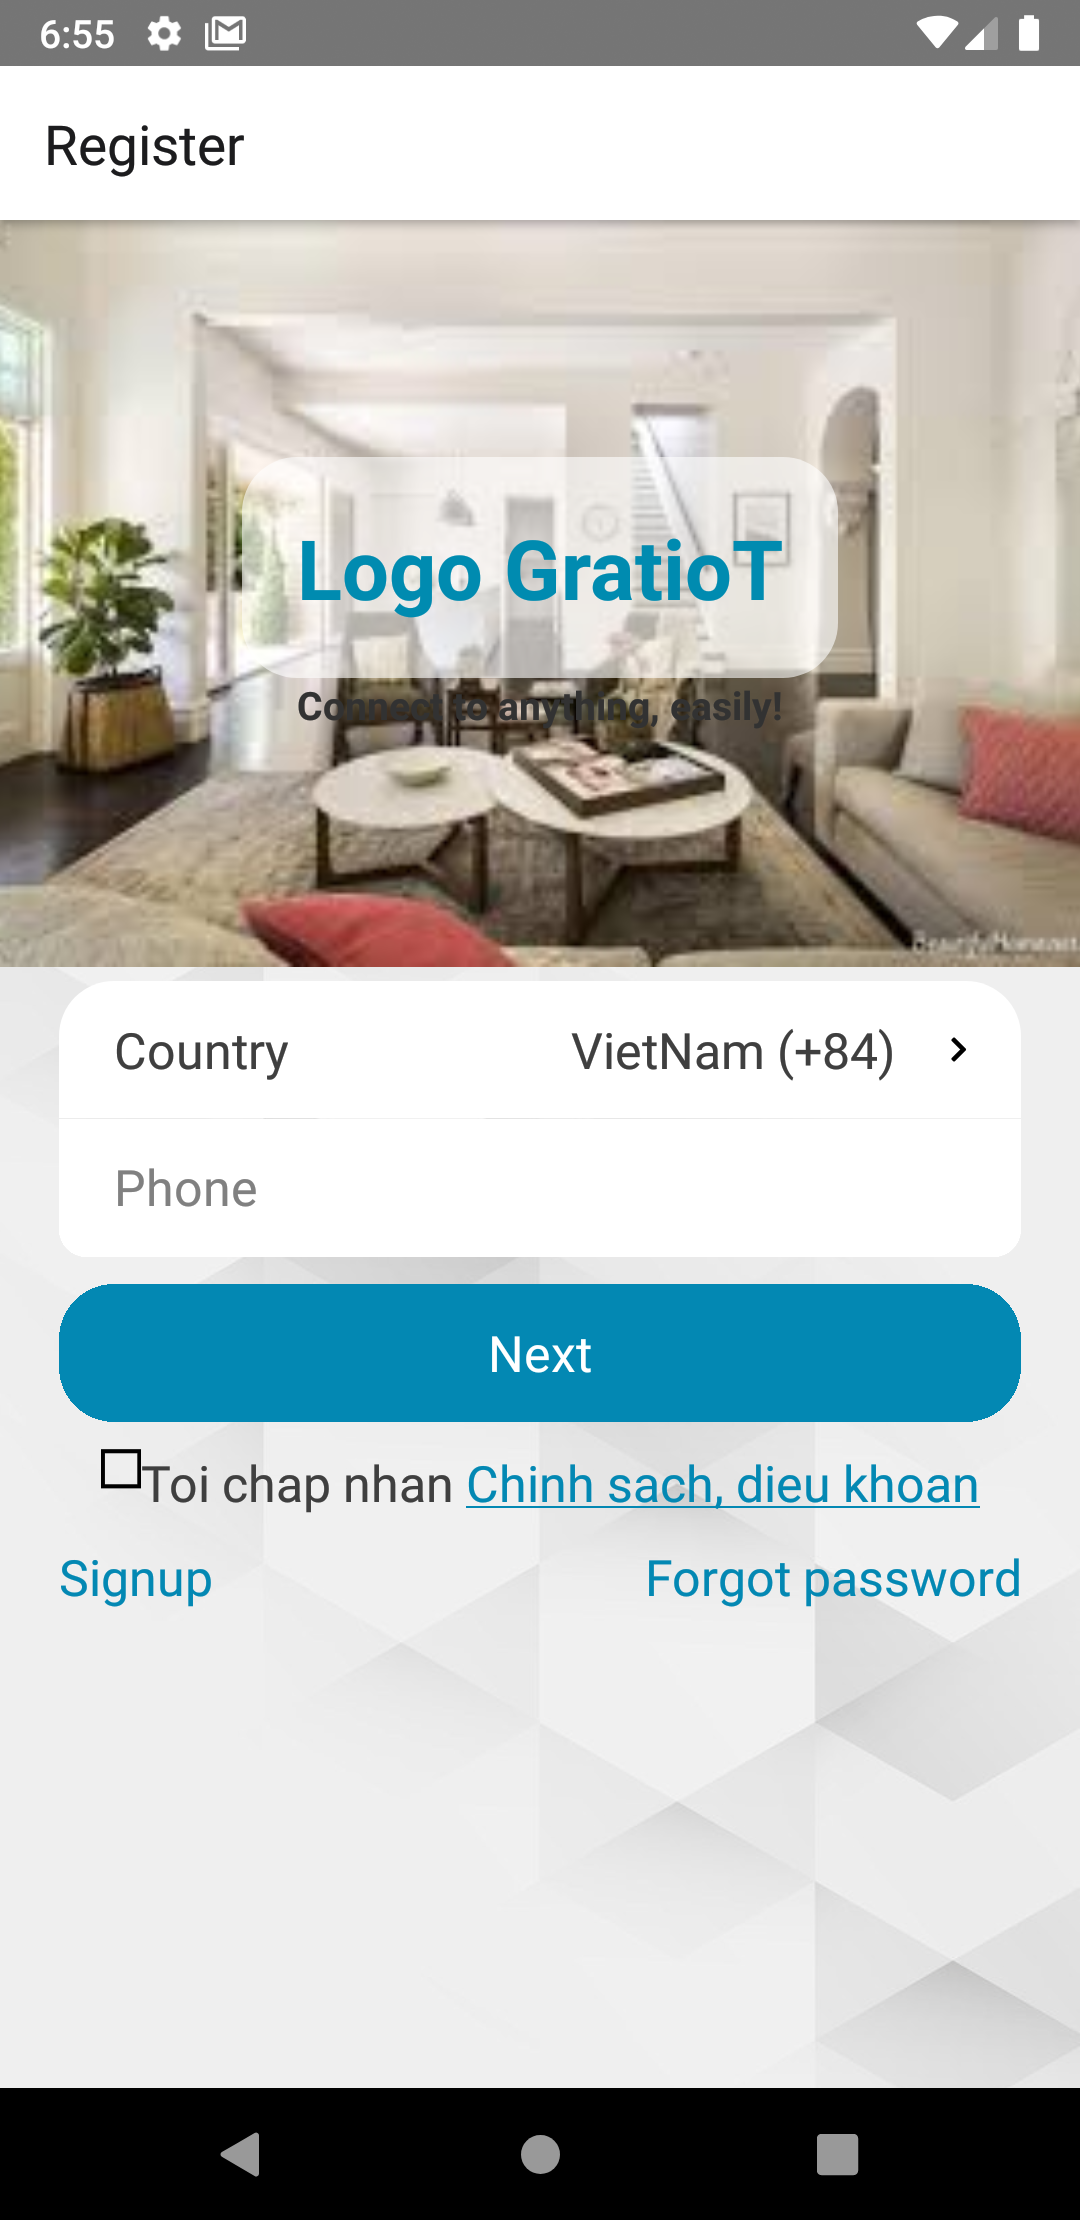
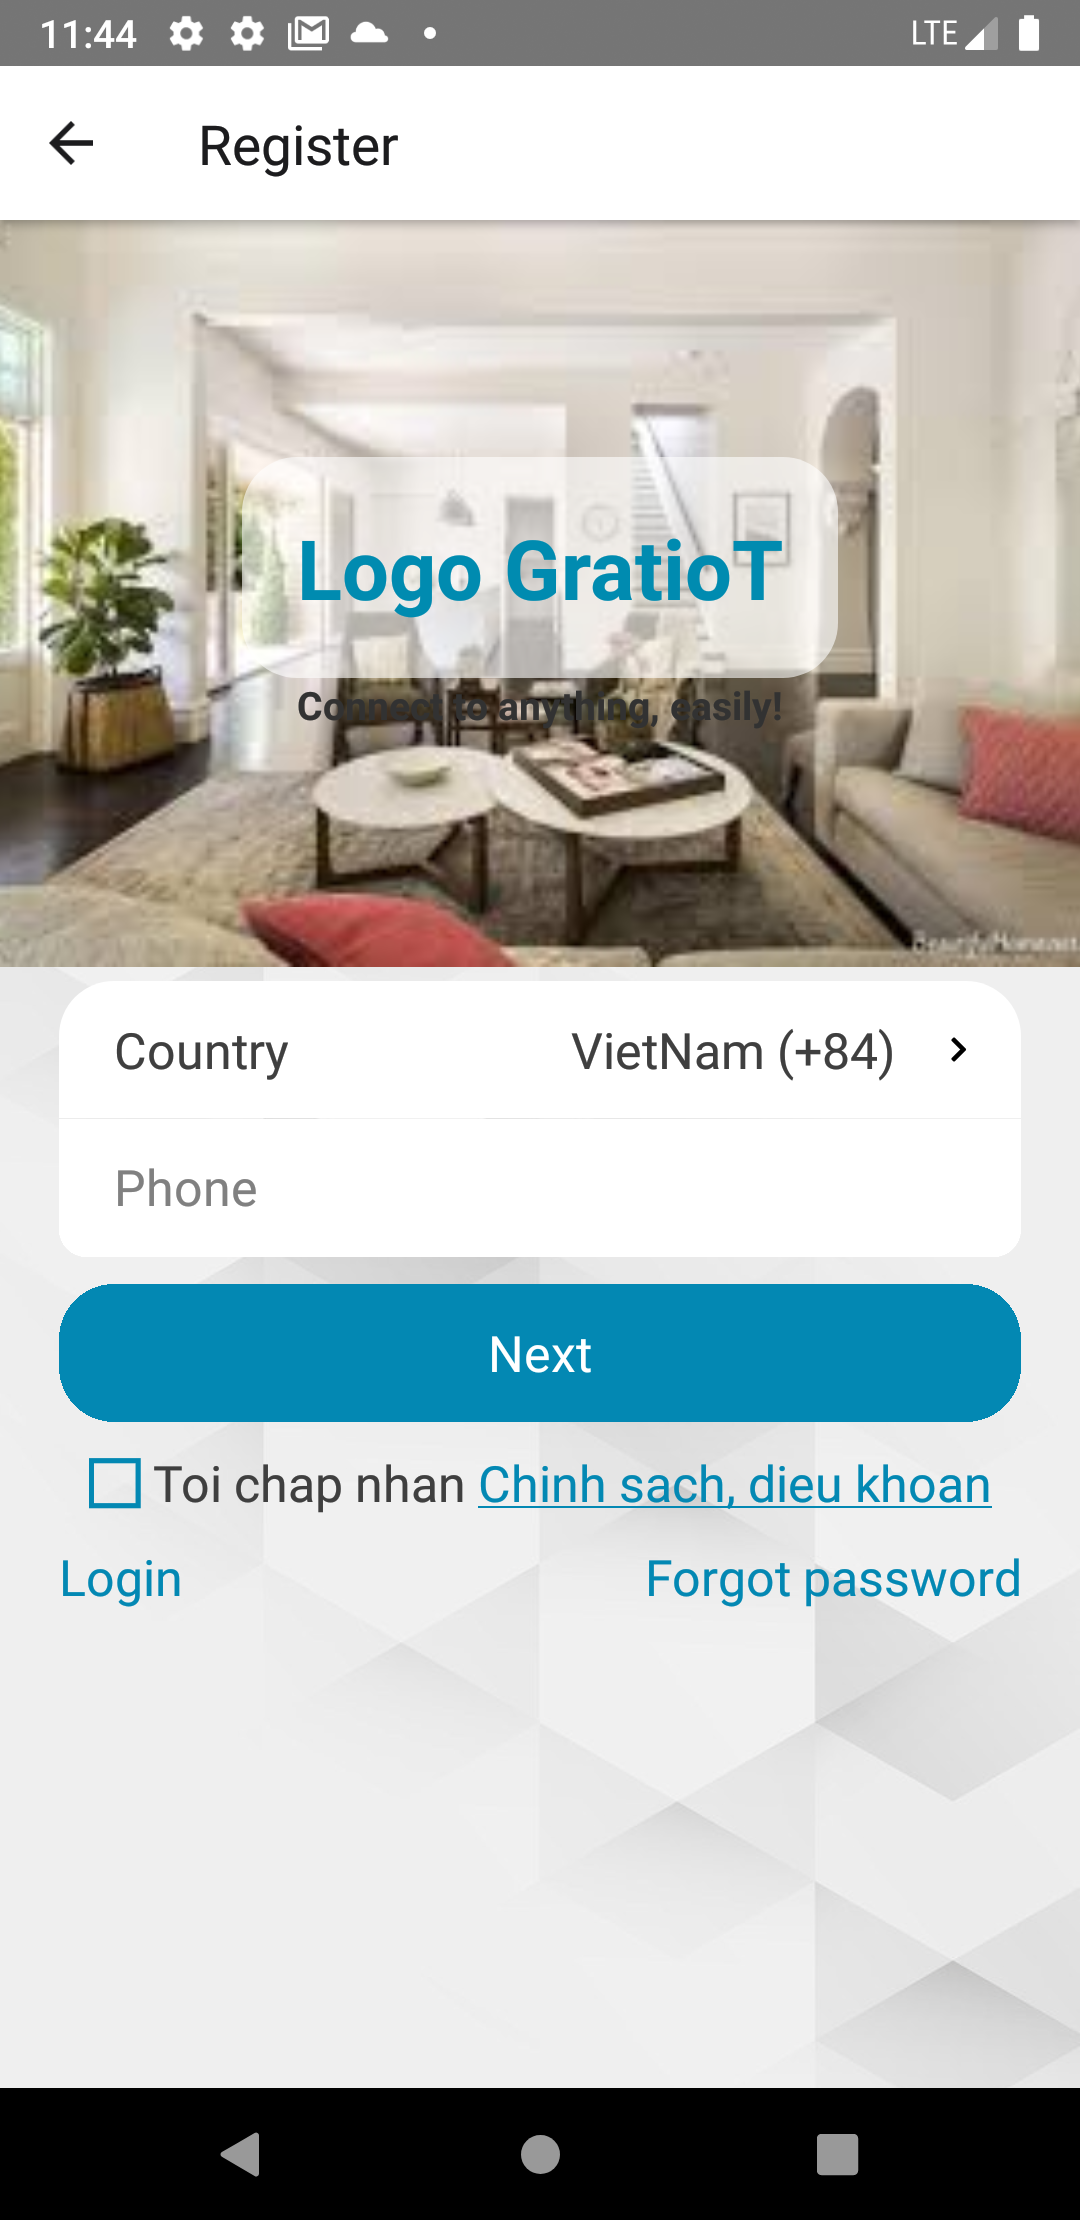
redirect between screens and edit reviewImages

diff --git a/src/component/verifyPhone.js b/src/component/verifyPhone.js
@@ -17,12 +17,13 @@ export default class ConfirmPhone extends Component {
         }
         this.changeCode = this.changeCode.bind(this);
         this.confirmCode = this.confirmCode.bind(this);
+        this.redirectScreen = this.redirectScreen.bind(this);
     }
 
-    //-----------------------------------Save code on state--------------------------------------
+    //-------------------------------------------Save code on state------------------------------------------------
     changeCode = (value) => {
         this.setState({
-            code: value
+            code: value,
         })
     }
     //----------------------------------method check code from input in state--------------------------------------
@@ -56,12 +57,25 @@ export default class ConfirmPhone extends Component {
     //------------------------------------------------submit to checkcode--------------------------------------------
     confirmCode = () => {
         if (this.checkCode(this.state.code)) {
-
+            //redirect to EnterPassword Screen
+            this.redirectScreen('EnterPassword');
         }
     }
 
+    //----------------------------------Redirect this screen to other screen-------------------------------------------
+    redirectScreen = (screenName) => {
+        this.props.navigation.navigate(screenName);
+    }
+
+    //--------------------------------Send code again if user pressed again button------------------------------------
     sendCodeAgain = () => {
-        //Send code to phone which is signed
+        //call sever to send code 
+        //code
+
+        if (this.state.timeRun) {
+            return;
+        }
+
         this.state.timeRun = setInterval(() => {
             this.setState({
                 isSendCodeAgain: true,
@@ -69,14 +83,22 @@ export default class ConfirmPhone extends Component {
             })
         }, 1000);
     }
-    componentWillUpdate() {
-        if (this.state.time == 0) {
+
+    //----------------------------------------determine the time to stop timeRun------------------------------------
+    componentDidUpdate() {
+        if (this.state.time == 1) {
             clearInterval(this.state.timeRun);
             this.setState({
                 isSendCodeAgain: false,
                 time: 30,
+                timeRun: null,
             })
         }
+    }
+
+    //-----If user pressed again button to send code while redirect to other screen. This time, must stop timeRun------
+    componentWillUnmount() {
+        clearInterval(this.state.timeRun);
     }
 
     render() {
@@ -97,21 +119,24 @@ export default class ConfirmPhone extends Component {
                         <InputAN placeholder={'Code'} fontSize={StylesApp.fontSize} bgColor={'white'} onChangeInput={this.changeCode} width={300} />
                         <ButtonTextAN title={'again'} onPress={this.sendCodeAgain} />
                     </View>
+
                     {/* Show error */}
                     {this.state.isError ? errorComponent : null}
                     {/* Show error */}
+
                     <View style={styles.buttonForm}>
-                        <ButtonTextAN title={'Sign in'} onPress={this.confirmCode} fontSize={StylesApp.fontSize} color={'white'} bgColor={StylesApp.button} width={350} height={50} />
+                        <ButtonTextAN title={'Next'} onPress={this.confirmCode} fontSize={StylesApp.fontSize} color={'white'} bgColor={StylesApp.button} width={350} height={50} />
                     </View>
                     <View style={styles.SignupAndFgPass}>
-                        <ButtonTextAN onPress={this.redirectScreen} title={'Signup'} fontSize={StylesApp.fontSize} color={StylesApp.button} />
-                        <ButtonTextAN onPress={this.redirectScreen} title={'Forgot password'} fontSize={StylesApp.fontSize} color={StylesApp.button} />
+                        <ButtonTextAN onPress={() => this.redirectScreen('Register')} title={'Signup'} fontSize={StylesApp.fontSize} color={StylesApp.button} />
+                        <ButtonTextAN onPress={() => this.redirectScreen('Login')} title={'Login'} fontSize={StylesApp.fontSize} color={StylesApp.button} />
                     </View>
                 </View>
             </View>
         )
     }
 }
+
 const styles = StyleSheet.create({
     ConfirmPhoneView: {
         justifyContent: "flex-start",

diff --git a/src/component/ForgotPassword.js b/src/component/ForgotPassword.js
@@ -13,7 +13,6 @@ export default class Register extends Component {
             phone: null,
             isError: false,
             error: null,
-            isCheck: false,
         }
         this.changeCountry = this.changeCountry.bind(this);
         this.changePhone = this.changePhone.bind(this);
@@ -47,13 +46,6 @@ export default class Register extends Component {
         return true;
     }
 
-    //----------------------------------------Check, user had been checked box---------------------------------------
-    isAccepted = (value) => {
-        this.setState({
-            isCheck: value,
-        })
-    }
-
     //-------------------------------------Save value from code country input---------------------------------------
     changeCountry = (text) => {
         this.setState({
@@ -75,7 +67,7 @@ export default class Register extends Component {
 
     //---------------------------------Get phone is filled in input and check---------------------------------------
     postPhone() {
-        if (this.checkPhone(this.state.phone) && this.state.isCheck) {
+        if (this.checkPhone(this.state.phone)) {
             // post data on server
             //code
 
@@ -120,16 +112,9 @@ export default class Register extends Component {
                     <View style={styles.buttonForm}>
                         <ButtonTextAN onPress={this.postPhone} title={'Next'} fontSize={StylesApp.fontSize} color={'white'} bgColor={StylesApp.button} width={350} height={50} />
                     </View>
-                    <View style={{ marginTop: 10, flexDirection: 'row', justifyContent: 'center', alignItem: 'center' }}>
-                        <CheckBoxAN onCheck={this.isAccepted} fontSize={StylesApp.fontSize} color={StylesApp.button} />
-                        <Text style={{ color: StylesApp.text, fontSize: StylesApp.fontSize }}> Toi chap nhan </Text>
-                        <TouchableOpacity>
-                            <Text style={{ color: StylesApp.button, textDecorationLine: 'underline', fontSize: StylesApp.fontSize }}>Chinh sach, dieu khoan</Text>
-                        </TouchableOpacity>
-                    </View>
                     <View style={styles.SignupAndFgPass}>
+                        <ButtonTextAN onPress={() => this.redirectScreen('Signup')} title={'Sign up'} fontSize={StylesApp.fontSize} color={StylesApp.button} />
                         <ButtonTextAN onPress={() => this.redirectScreen('Login')} title={'Login'} fontSize={StylesApp.fontSize} color={StylesApp.button} />
-                        <ButtonTextAN onPress={() => this.redirectScreen('VerifyPhone')} title={'Forgot password'} fontSize={StylesApp.fontSize} color={StylesApp.button} />
                     </View>
                 </View>
             </View>

diff --git a/src/component/EnterPassword.js b/src/component/EnterPassword.js
@@ -15,6 +15,8 @@ export default class EnterPassword extends Component {
         this.textChange = this.textChange.bind(this);
         this.createPassword = this.createPassword.bind(this);
     }
+
+    //-------------------------------------------Check password------------------------------------------------------
     checkPassword = (input) => {
         if (!input) {
             this.setState({
@@ -66,17 +68,22 @@ export default class EnterPassword extends Component {
         return true;
     }
 
+    //--------------------------Save value from password input which has been filled by user-------------------------
     textChange = (text) => {
         this.setState({
             password: text,
         })
     }
 
+    //--------------------------Submit form, if password is true, redirect to other screen---------------------------
     createPassword = () => {
         let result = this.checkPassword(this.state.password);
         if (result) {
             //Post data to table||database
-            alert(this.state.password);
+            //Code
+
+            //Redirect to login screen
+            this.props.navigation.navigate('Login');
         }
     }
 
@@ -91,13 +98,15 @@ export default class EnterPassword extends Component {
             <View style={styles.loginView}>
                 <View style={{ flexDirection: "column", justifyContent: "center" }}>
                     <View style={styles.inputPassword}>
-                        <InputAN onChangeInput={this.textChange} placeholder='Password' hasIcon={true} fontSize={StylesApp.fontSize} bgColor={'white'} />
+                        <InputAN onChangeInput={this.textChange} placeholder='Enter password' hasIcon={true} fontSize={StylesApp.fontSize} bgColor={'white'} />
                     </View>
+
                     {/* Show error */}
                     {this.state.isError ? errorComponent : null}
                     {/* Show error */}
+
                     <View style={styles.buttonForm}>
-                        <ButtonTextAN title={'Next'} onPress={this.createPassword} fontSize={StylesApp.fontSize} color={'white'} bgColor={StylesApp.button} width={350} height={50} />
+                        <ButtonTextAN title={'Login'} onPress={this.createPassword} fontSize={StylesApp.fontSize} color={'white'} bgColor={StylesApp.button} width={350} height={50} />
                     </View>
                 </View>
             </View>

diff --git a/src/component/login.js b/src/component/login.js
@@ -14,8 +14,8 @@ export default class login extends Component {
         this.redirectScreen = this.redirectScreen.bind(this);
     }
 
+    //------------------------------------Redirect this screen to other screen--------------------------------------- 
     redirectScreen = (screenName) => {
-        console.log(this.props.navigation);
         this.props.navigation.navigate(screenName);
     }
 
@@ -46,14 +46,15 @@ export default class login extends Component {
                         <ButtonTextAN title={'Sign in'} fontSize={StylesApp.fontSize} color={'white'} bgColor={StylesApp.button} width={350} height={50} />
                     </View>
                     <View style={styles.SignupAndFgPass}>
-                        <ButtonTextAN onPress={()=>{this.redirectScreen('Register')}} title={'Signup'} fontSize={StylesApp.fontSize} color={StylesApp.button} />
-                        <ButtonTextAN onPress={()=>{this.redirectScreen('VerifyPhone')}} title={'Forgot password'} fontSize={StylesApp.fontSize} color={StylesApp.button} />
+                        <ButtonTextAN onPress={() => this.redirectScreen('Register')} title={'Signup'} fontSize={StylesApp.fontSize} color={StylesApp.button} />
+                        <ButtonTextAN onPress={() => this.redirectScreen('ForgotPassword')} title={'Forgot password'} fontSize={StylesApp.fontSize} color={StylesApp.button} />
                     </View>
                 </View>
             </View>
         )
     }
 }
+
 const styles = StyleSheet.create({
     loginView: {
         justifyContent: "flex-start",

diff --git a/src/screen/App.js b/src/screen/App.js
@@ -1,24 +1,27 @@
 import { NavigationContainer } from '@react-navigation/native';
 import { createStackNavigator } from '@react-navigation/stack';
-import React, {Component} from 'react';
+import React, { Component } from 'react';
 import Login from './login';
 import Register from './Register';
 import VerifyPhone from './verifyPhone';
 import EnterPassword from './EnterPassword';
+import ForgotPassword from './ForgotPassword';
 
 const Stack = createStackNavigator();
 
 export default class App extends Component {
+
   render() {
     return (
       <NavigationContainer>
-      <Stack.Navigator>
-        <Stack.Screen name="Login" component={Login} />
-        <Stack.Screen name="Register" component={Register} />
-        <Stack.Screen name="VerifyPhone" component={VerifyPhone} />
-        <Stack.Screen name="EnterPassword" component={EnterPassword} />
-      </Stack.Navigator>
-    </NavigationContainer>
+        <Stack.Navigator>
+          <Stack.Screen name="Login" component={Login} />
+          <Stack.Screen name="Register" component={Register} />
+          <Stack.Screen name="VerifyPhone" component={VerifyPhone} />
+          <Stack.Screen name="EnterPassword" component={EnterPassword} />
+          <Stack.Screen name='ForgotPassword' component={ForgotPassword} />
+        </Stack.Navigator>
+      </NavigationContainer>
     )
   }
 }

diff --git a/src/screen/ForgotPassword.js b/src/screen/ForgotPassword.js
@@ -1,12 +1,12 @@
 import React, { Component } from 'react'
 import { StyleSheet, View, ImageBackground } from 'react-native';
 import Header from "../component/SliderAN";
-import RegisterComponent from '../component/register';
 import bgApp from "./images/bgApp.png";
 import bgHeader from "./images/bgHeader.jpg";
-import StylesApp from '../component/StylesApp';
+import StylesApp from "../component/StylesApp";
+import ForgotPasswordComponent from '../component/ForgotPassword';
 
-export default class Register extends Component {
+export default class ForgotPassword extends Component {
   constructor(props) {
     super(props)
     this.state = {
@@ -20,7 +20,7 @@ export default class Register extends Component {
           <Header bgHeader={bgHeader} title={StylesApp.logoText} quote={StylesApp.quote} />
         </View>
         <View style={styles.styleBody}>
-          <RegisterComponent navigation={this.props.navigation} />
+          <ForgotPasswordComponent navigation={this.props.navigation} />
         </View>
       </ImageBackground>
     )
@@ -42,7 +42,7 @@ const styles = StyleSheet.create({
   },
   styleBody: {
     height: '60%',
-    width: '100%'
+    width: '90%'
   }
 })
 

diff --git a/src/component/CheckBoxAN.js b/src/component/CheckBoxAN.js
@@ -19,8 +19,8 @@ export default class CheckBoxAN extends Component {
         this.isCheck = this.isCheck.bind(this);
     }
 
-    isCheck = () => {
-        this.setState({
+    isCheck = async () => {
+        await this.setState({
             isCheck: !this.state.isCheck,
         })
         if (this.props.onCheck) this.props.onCheck(this.state.isCheck);
@@ -28,7 +28,7 @@ export default class CheckBoxAN extends Component {
 
     render() {
         return (
-            <TouchableOpacity onPress={this.isCheck}>
+            <TouchableOpacity onPress={this.isCheck} style={{ justifyContent: 'center', alignItems: 'center' }}>
                 {this.state.isCheck ?
                     <Icon name="checkbox-active" color={this.props.color ? this.props.color : 'black'} size={this.props.fontSize ? this.props.fontSize : 14} /> :
                     <Icon name="checkbox-passive" color={this.props.color ? this.props.color : 'black'} size={this.props.fontSize ? this.props.fontSize : 14} />}

diff --git a/src/screen/EnterPassword.js b/src/screen/EnterPassword.js
@@ -1,7 +1,7 @@
 import React, { Component } from 'react'
 import { StyleSheet, View, ImageBackground } from 'react-native';
 import Header from "../component/SliderAN";
-import LoginComponent from "../component/EnterPassword";
+import EnterPasswordComponent from "../component/EnterPassword";
 import bgHeader from "./images/bgHeader.jpg";
 import bgApp from "./images/bgApp.png";
 import StylesApp from "../component/StylesApp";
@@ -20,7 +20,7 @@ export default class Login extends Component {
           <Header bgHeader={bgHeader} title={StylesApp.logoText} quote={StylesApp.quote} />
         </View>
         <View style={styles.styleBody}>
-          < LoginComponent />
+          < EnterPasswordComponent navigation={this.props.navigation} />
         </View>
       </ImageBackground>
     )

diff --git a/src/component/ButtonTextAN.js b/src/component/ButtonTextAN.js
@@ -1,5 +1,13 @@
+//is writed by Anh Ngo on 02/06/2020. Thanks for read and use
+
+//----------------------------------------------Note---------------------------------------------------------------------
+//props = [bgColor, width, height,fontSize, color]
+//Events = [onPress, onPressOut, onPressIn]
+//----------------------------------------------Note---------------------------------------------------------------------
+
+
 import React, { Component } from 'react'
-import { Text, View, TouchableOpacity, StyleSheet } from 'react-native'
+import { Text, TouchableOpacity, StyleSheet } from 'react-native'
 
 export default class ButtonTextAN extends Component {
     constructor(props) {

diff --git a/src/screen/verifyPhone.js b/src/screen/verifyPhone.js
@@ -10,8 +10,10 @@ export default class HomeScreen extends Component {
   constructor(props) {
     super(props)
     this.state = {
+
     }
   }
+
   render() {
     return (
       <ImageBackground source={bgApp} style={styles.ImageBgApp}>
@@ -19,7 +21,7 @@ export default class HomeScreen extends Component {
           <Header bgHeader={bgHeader} title={StylesApp.logoText} quote={StylesApp.quote} />
         </View>
         <View style={styles.styleBody}>
-          <VerifyPhoneComponent />
+          <VerifyPhoneComponent navigation={this.props.navigation} />
         </View>
       </ImageBackground>
     )

diff --git a/src/screen/login.js b/src/screen/login.js
@@ -7,12 +7,14 @@ import bgApp from "./images/bgApp.png";
 import StylesApp from "../component/StylesApp";
 
 export default class Login extends Component {
+
   constructor(props) {
     super(props)
     this.state = {
 
     }
   }
+
   render() {
     return (
       <ImageBackground source={bgApp} style={styles.ImageBgApp}>

diff --git a/src/component/SliderAN.js b/src/component/SliderAN.js
@@ -13,6 +13,7 @@ export default class Header extends Component {
         this.state = {
         }
     }
+
     render() {
         return (
             <ImageBackground source={this.props.bgHeader} style={styles.bgHeader}>
